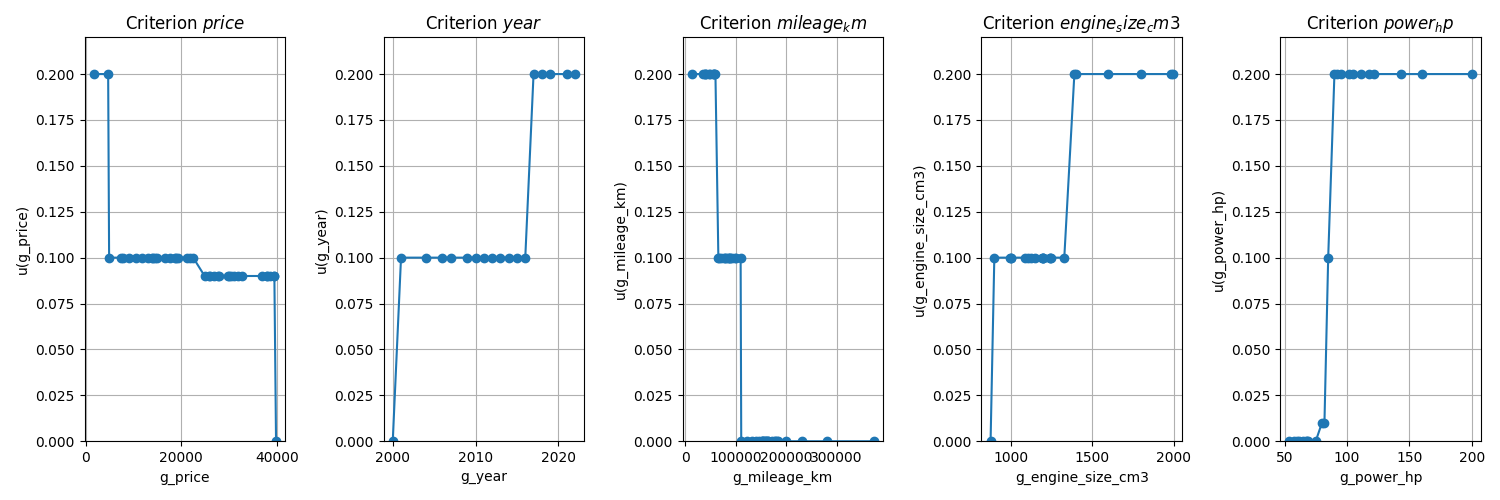
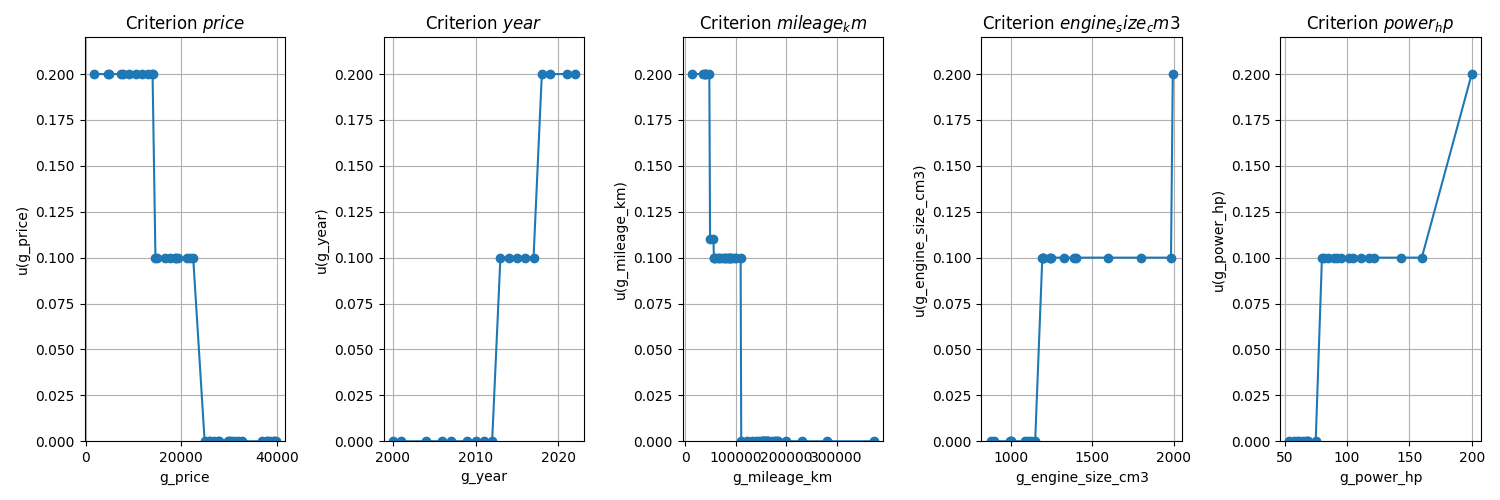
consistency with previous report - promethee comparison

diff --git a/uta.py b/uta.py
@@ -200,17 +200,17 @@ def main():
                 Criterion(name="power_hp", is_gain=True, values=sorted(dataset["power_hp"].unique()))]
     
     preferences = [
-        Preference(better="Alternative_0", worse="Alternative_1"), # A > B
-        Preference(better="Alternative_1", worse="Alternative_2"), # B > C
-        Preference(better="Alternative_2", worse="Alternative_0"), # C > A (cycle)
-        Preference(better="Alternative_2", worse="Alternative_3"), # C > D
-        Preference(better="Alternative_3", worse="Alternative_4"), # D > E
-        Preference(better="Alternative_4", worse="Alternative_5"), # E > F
+        Preference(better="Alternative_8", worse="Alternative_9"), # kia picanto > audi a3
+        Preference(better="Alternative_7", worse="Alternative_9"), # fiat 500 > audi a3
+        Preference(better="Alternative_31", worse="Alternative_9"), # mitsubishi > audi a3
+        Preference(better="Alternative_31", worse="Alternative_8"), # mitsubishi > kia picanto
+        Preference(better="Alternative_31", worse="Alternative_7"), # mitsubishi > fiat 500
+        Preference(better="Alternative_9", worse="Alternative_31"), # audi a3 > mitsubishi (cycle)
     ]
     
     print("Preferences:")
     for pref in preferences:
-        if pref.better.endswith("2") and pref.worse.endswith("0"):
+        if pref.better.endswith("9") and pref.worse.endswith("34"):
             print(f"{pref.better} > {pref.worse} - Cycle")
         else: print(f"{pref.better} > {pref.worse}")
     
@@ -229,7 +229,7 @@ def main():
     print(f"\nSolution status: {LpStatus[problem.status]}")
     
     if LpStatus[problem.status] == "Optimal":
-        objective_value = np.sum([value(alternative_utilities[pref.better]) - value(alternative_utilities[pref.worse]) for pref in preferences])
+        objective_value = np.sum([value(alternative_utilities[pref.better]) - value(alternative_utilities[pref.worse]) for pref in consistent_preferences])
         print(f"\nObjective function value: {objective_value:.4f}")
         
         print_problem_details(problem, criteria_variables, criteria, alternative_utilities)

diff --git a/README.md b/README.md
@@ -50,22 +50,32 @@ For our car selection problem, we implemented the UTA method to analyze the mult
 - Implementing a discriminant value function that maximizes the distance between utilities of alternatives in preference relationships
 
 ### 2.2 Preference Structure
+Looking at the cars, the Audi A3 stands out as particularly problematic. Despite having the largest engine and most power, it's from 2000 with a staggering 374,000 km on the odometer - more than double most other options. The Kia Picanto (2018, 56,213 km) and Fiat 500 (2012, 93,000 km) are much newer with far less wear.
+
+The Mitsubishi Space Star seems to be the best overall option:
+- Price: 26,000 PLN
+- Year: 2017
+- Mileage: 82,000 km
+- Engine: 1,193 cm³
+- Power: 80 HP
+
+It hits a sweet spot with reasonable price, recent year, manageable mileage, and decent performance - perfect for a student who needs reliability without breaking the bank.
 
 We defined the following preference relations to guide our model:
-- Alternative_0 > Alternative_1 (Renault Clio > Renault Megane)
-- Alternative_1 > Alternative_2 (Renault Megane > Dacia Sandero)
-- Alternative_2 > Alternative_3 (Dacia Sandero > Mitsubishi Space Star)
-- Alternative_3 > Alternative_4 (Mitsubishi Space Star > Nissan Micra)
-- Alternative_4 > Alternative_5 (Nissan Micra > Ford KA)
+- Alternative_8 > Alternative_9 (Kia Picanto > Audi A3)
+- Alternative_7 > Alternative_9 (Fiat 500 > Audi A3)
+- Alternative_31 > Alternative_9 (Mitsubishi Space Star > Audi A3)
+- Alternative_31 > Alternative_8 (Mitsubishi Space Star > Kia Picanto)
+- Alternative_31 > Alternative_7 (Mitsubishi Space Star > Fiat 500)
 
 We also introduced an inconsistent preference:
-- Alternative_2 > Alternative_0 (Dacia Sandero > Renault Clio)
+- Alternative_9 > Alternative_31 (Audi A3 > Mitsubishi Space Star)
 
-This creates a cycle (Renault Clio > Renault Megane > Dacia Sandero > Renault Clio), which our solver had to find. And it found and removed the contradictory preference (Dacia Sandero > Renault Clio) to fix the cycle in our preference statements.
+This creates a cycle (Mitsubishi > Kia Picanto > Audi A3 > Mitsubishi), which our solver had to find. And it found and removed the contradictory preference (Audi A3 > Mitsubishi Space Star) to fix the cycle in our preference statements.
 
 ### 2.3 Results Analysis
 
-![Utility Functions](utility_functions.png)
+![Marginal Value Functions](marginal_value_functions.png)
 
 #### Objective Function
 We implemented an objective function that maximizes the sum of utility differences between alternatives in preference relationships:
@@ -74,18 +84,18 @@ We implemented an objective function that maximizes the sum of utility differenc
 Maximize: Σ (U(a) - U(b)) for all preference relations a > b
 ```
 
-This approach finds the most discriminant value function by ensuring that preferred alternatives have significantly higher utility values than less preferred ones. Our objective function successfully maximized the discrimination between alternatives in preference relationships:
+This approach finds the most discriminant value function by ensuring that preferred alternatives have significantly higher utility values than less preferred ones. Our objective function value was 1.5000, showing that our model successfully maximized the discrimination between alternatives in preference relationships:
 
 1. **Clear Utility Separation**: Looking at our consistent preference relations:
-   - Alternative_0 > Alternative_1: Utilities 0.79 > 0.70 (difference: 0.09)
-   - Alternative_1 > Alternative_2: Utilities 0.70 > 0.69 (difference: 0.01)
-   - Alternative_2 > Alternative_3: Utilities 0.69 > 0.50 (difference: 0.19)
-   - Alternative_3 > Alternative_4: Utilities 0.50 > 0.31 (difference: 0.19)
-   - Alternative_4 > Alternative_5: Utilities 0.31 > 0.30 (difference: 0.01)
+   - Alternative_8 > Alternative_9: Utilities 0.31 > 0.30 (difference: 0.01)
+   - Alternative_7 > Alternative_9: Utilities 0.40 > 0.30 (difference: 0.10)
+   - Alternative_31 > Alternative_9: Utilities 0.80 > 0.30 (difference: 0.50)
+   - Alternative_31 > Alternative_8: Utilities 0.80 > 0.31 (difference: 0.49)
+   - Alternative_31 > Alternative_7: Utilities 0.80 > 0.40 (difference: 0.40)
 
-2. **Total Discrimination**: The sum of these differences (our objective function value) is 0.49, which represents how well our model discriminates between alternatives in preference relationships.
+2. **Total Discrimination**: The sum of these differences (our objective function value) is 1.50, which represents how well our model discriminates between alternatives in preference relationships.
 
-3. **Distinct Utility Clusters**: The utility values show clear groupings (0.79, 0.70-0.69, 0.61-0.59, 0.50-0.49, 0.40-0.39, 0.31-0.30), indicating that the model separates alternatives into tiers.
+3. **Distinct Utility Clusters**: The utility values show clear groupings (0.80, 0.60, 0.50, 0.40, 0.30-0.31, 0.20, 0.10), indicating that the model separates alternatives into distinct tiers.
 
 #### Criteria Weights
 Our model gave equal weight to all criteria:
@@ -98,19 +108,47 @@ Our model gave equal weight to all criteria:
 This happened because of our artificial alternatives that prevent any single criterion from becoming too important. Based on our preference statements, the model couldn't find a reason to make one criterion more important than others. 
 
 #### Car Rankings
-Our model successfully found a solution after removing the inconsistent preference, showing that our approach was reasonable. Both of the Renault Clio models stand out as the clear winners with a utility score of 0.79, which is significantly higher than the other cars.
-Top 10 cars according to our model:
-1. Renault Clio 0.9 Energy TCe Limited (0.79)
-2. Renault Clio (Energy) TCe 90 Start & Stop LIMITED (0.79)
-3. BMW Seria 1 118i (0.70)
-4. Renault Megane 1.4 RN 16V (0.70)
-5. Volkswagen Polo 1.2 TSI BMT Highline (0.69)
-6. Dacia Sandero Stepway TCe 90 (S&S) Essential (0.69)
-7. Audi A1 1.4 TFSI Sportback S tronic Ambition (0.69)
-8. Suzuki Swift 1.0 T Elegance (0.69)
-9. Opel Corsa (0.69)
-10. Mitsubishi Space Star 1.2 Clear Tec CVT Active+ (0.61)
+Our model successfully found a solution after removing the inconsistent preference, showing that our approach was reasonable. The Mitsubishi Space Star stands out as the clear winner with a utility score of 0.80, which is significantly higher than the other cars.
 
-The scores range from 0.30 to 0.79, giving us a good way to tell the cars apart.
+Top 10 cars according to our model:
+1. Mitsubishi Space Star 1.2 Clear Tec CVT Active+ (0.80)
+2. Peugeot 208 PureTech 75 Allure (0.60)
+3. BMW Seria 1 118i (0.50)
+4. Citroën C3 1.2 VTi Attraction (0.50)
+5. Fiat 500 1.2 8V Start&Stopp Collezione (0.50)
+6. Peugeot 208 1.2 PureTech Style (0.40)
+7. Audi A1 1.4 TFSI Sportback S tronic Ambition (0.40)
+8. Volkswagen Polo 1.2 TSI BMT Highline (0.40)
+9. Suzuki Swift 1.0 T Elegance (0.40)
+10. Kia Rio (0.40)
+
+The scores range from 0.10 to 0.80, giving us a good way to tell the cars apart.
 
 The UTA method was effective in analyzing this complex car selection problem by handling the preference inconsistency and giving us a clear ranking of all alternatives.
+
+## 3. Comparison Between UTA and PROMETHEE Methods
+
+In our previous project, we analyzed the same car selection problem using the PROMETHEE method. Here's how the results compare:
+
+### 3.1 Results Comparison
+
+Both methods identified the Mitsubishi Space Star as the top choice:
+
+| Car Model | UTA Rank | PROMETHEE Rank |
+|-----------|----------|----------------|
+| Mitsubishi Space Star | 1 | 1 |
+| Fiat 500 | 5 | 4 |
+| Dacia Sandero | 6 | 2 |
+| Renault Clio | 8 | 3 |
+| Kia Picanto | 10 | 5 |
+| Audi A3 | 16 | 10 |
+
+### 3.2 Key Insights
+
+1. **Consistency at Extremes**: Both methods ranked Mitsubishi Space Star at the top and Audi A3 at the bottom, confirming these as the best and worst options respectively.
+
+2. **Different Middle Rankings**: The methods differed in middle alternatives with Dacia Sandero ranked 6th in UTA but 2nd in PROMETHEE, and Renault Clio ranked 8th in UTA but 3rd in PROMETHEE.
+
+3. **Weight Determination**: UTA determined equal weights (0.2) for all criteria based on our preference statements, while PROMETHEE used our manually assigned weights (Mileage: 3, Price/Year: 2, Engine/Power: 1).
+
+4. **Confidence in Top Choice**: Both methods converging on the Mitsubishi Space Star as the best option gives us high confidence in this recommendation for our student car buyer.
